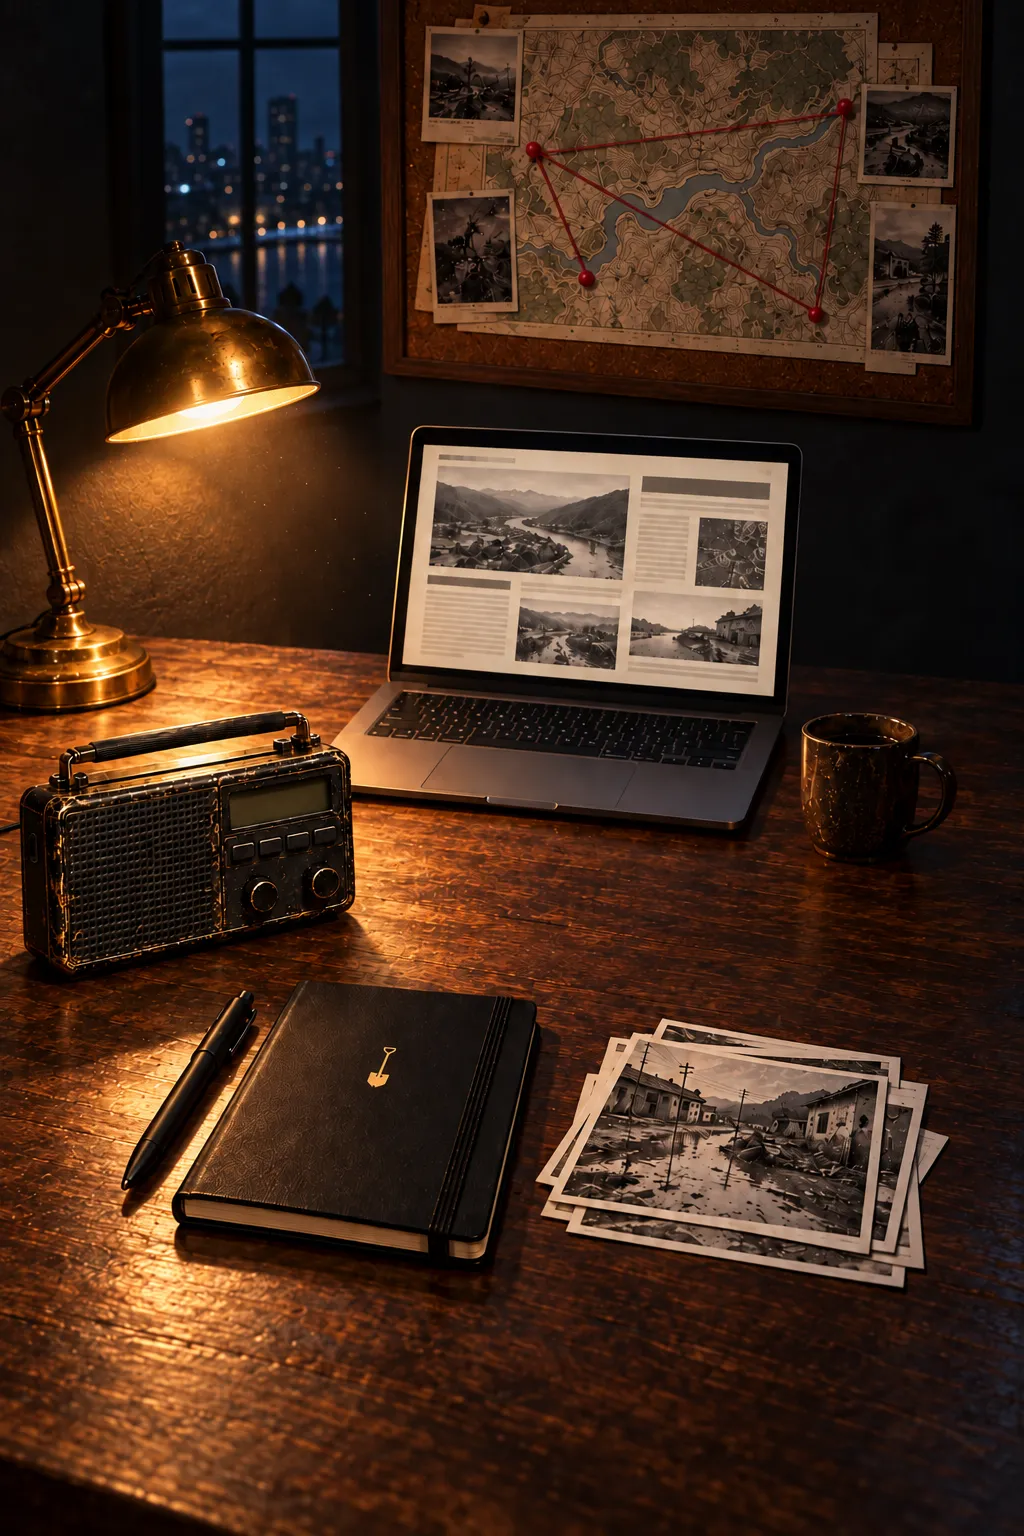
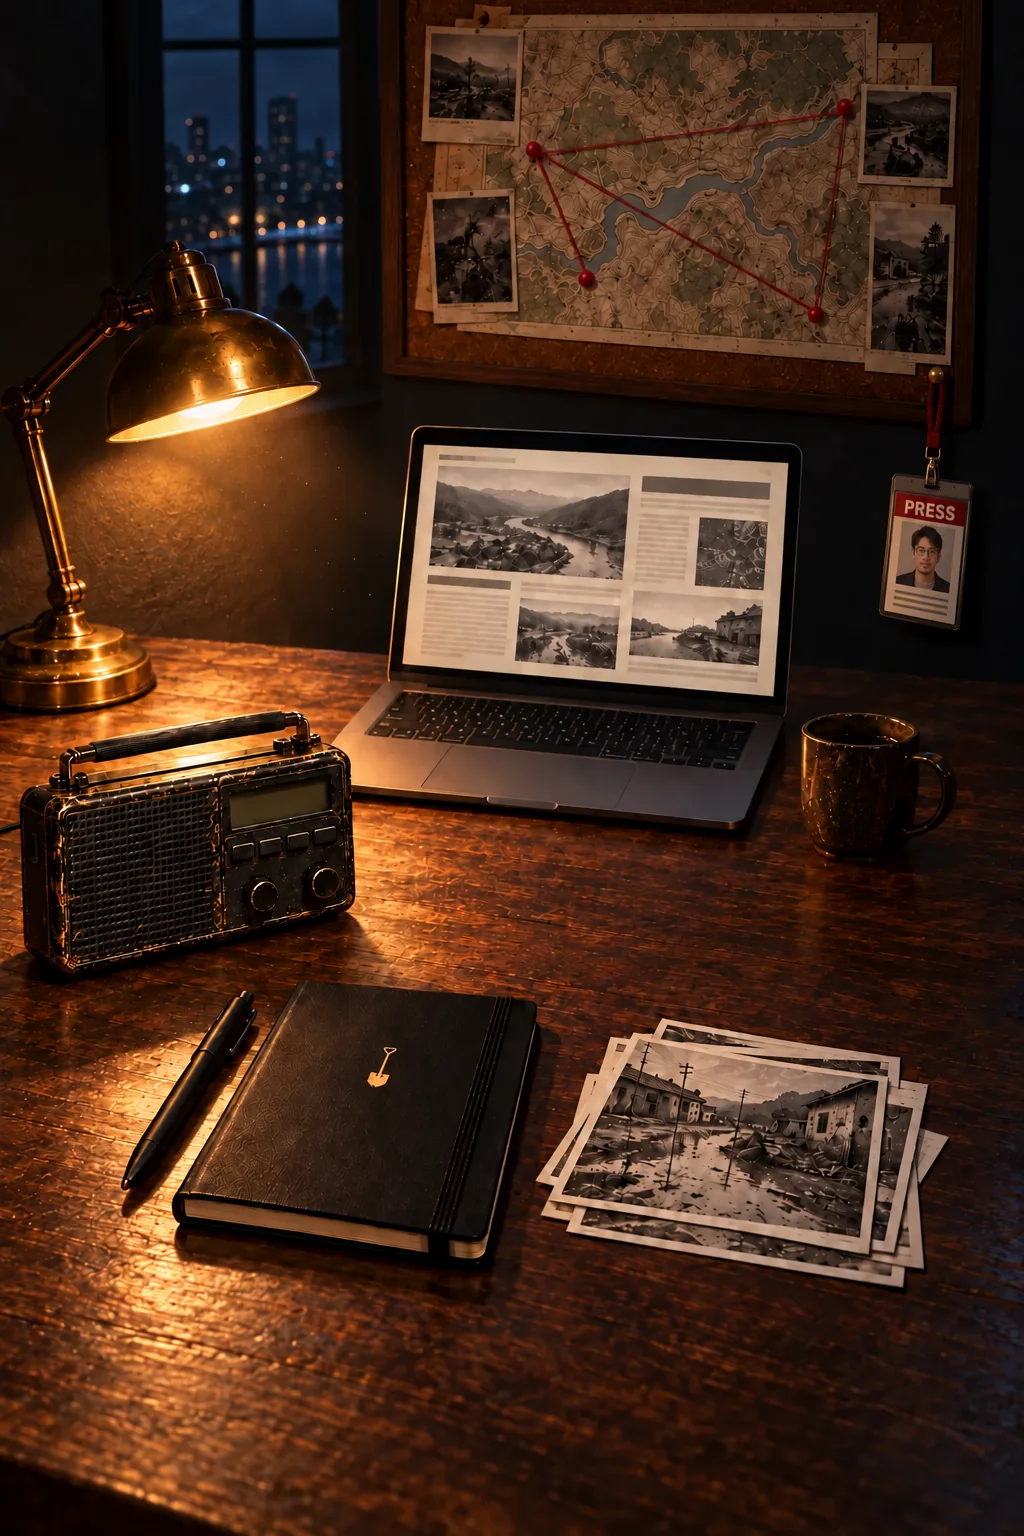
feat: press badge painted into the desk scene under the corkboard, soft staggered glow dots on the small desk props, full-width clipboard on phones
Claude-Session: https://claude.ai/code/session_01PNTLW8Jm5wEmPf4UpTbdVN

diff --git a/styles/desk.css b/styles/desk.css
@@ -220,12 +220,17 @@
   .desk__drag-hint { top: calc(var(--safe-top) + 6.6rem); right: max(1rem, var(--safe-right)); bottom: auto; left: max(1rem, var(--safe-left)); width: auto; max-width: none; font-size: 0.92rem; text-align: center; }
 }
 
-/* 桌上可以點的小東西：沒有提示小點，滑過時一樣會變亮放大 */
+/* 桌上可以點的小東西：光點比主要物件小、暗，閃爍節奏錯開（--glow-delay 由 js/props.js 依序設定）；點過就熄掉 */
 .desk-prop { z-index: 1; }
+.object-glow--minor { width: 0.62rem; height: 0.62rem; margin: -0.31rem 0 0 -0.31rem; border-width: 1.5px; border-color: rgba(255, 242, 207, 0.8); background: rgba(233, 151, 79, 0.75); box-shadow: 0 0 0.8rem 0.2rem rgba(255, 136, 66, 0.4); opacity: 0.85; animation: minor-pulse 3.4s ease-in-out var(--glow-delay, 0s) infinite; transition: opacity 300ms ease; }
+@keyframes minor-pulse { 0%, 100% { opacity: 0.35; transform: scale(0.85); } 50% { opacity: 0.95; transform: scale(1.1); } }
+.desk-prop.is-seen .object-glow--minor { opacity: 0; animation: none; }
 .desk-prop--lamp { --x: 10.5; --y: 6.4; --w: 14.4; --ar: 1.55; }
 .desk-prop--window { --x: 32; --y: 0; --w: 12.6; --ar: 0.79; }
 .desk-prop--mug { --x: 64.6; --y: 51; --w: 9; --ar: 1.07; z-index: 3; }
 .desk-prop--shelf { --x: 88.5; --y: 0; --w: 11.5; --ar: 0.58; }
+/* 記者證掛在軟木板右下角的圖釘上（畫在桌景裡），光點在證件上 */
+.desk-prop--badge { --x: 79.2; --y: 29.8; --w: 5.8; --ar: 0.36; --dx: 50%; --dy: 88%; z-index: 2; }
 
 /* 手寫文字泡泡 */
 .prop-note { position: fixed; z-index: 40; width: max-content; max-width: min(19rem, calc(100vw - 2rem)); margin: 0; padding: 0.65rem 0.9rem; color: #2b1d13; background: #f4ecd6; box-shadow: 0 0.8rem 1.6rem rgba(0, 0, 0, 0.5); font: 700 1.02rem/1.55 var(--hand); transform: translate(-50%, -100%) rotate(-1.5deg); pointer-events: none; animation: prop-note-in 220ms ease; }
@@ -233,30 +238,11 @@
 .prop-note[hidden] { display: none; }
 @keyframes prop-note-in { from { opacity: 0; transform: translate(-50%, calc(-100% + 0.4rem)) rotate(-1.5deg); } }
 
-/* 記者證：放在畫面前方右下角，板夾收合時露在它上方；板夾拉上來會蓋過它 */
-.press-badge { position: absolute; z-index: 18; right: calc(var(--safe-right) + 1.4rem); bottom: calc(var(--safe-bottom) + 9.4rem); padding: 0; border: 0; background: transparent; cursor: pointer; transform: rotate(-7deg); transform-origin: 50% 0; transition: transform 260ms cubic-bezier(0.3, 1.4, 0.5, 1); }
-.press-badge:hover,
-.press-badge:focus-visible { transform: rotate(-4deg) translateY(-0.3rem) scale(1.04); }
-.press-badge:focus-visible { outline: none; }
-.press-badge:focus-visible .press-badge__card { outline: 2px solid var(--ember-bright); outline-offset: 3px; }
-.press-badge__lanyard { position: absolute; z-index: -1; top: -0.4rem; left: 50%; width: 0.9rem; height: 9rem; margin-left: -0.45rem; background: repeating-linear-gradient(90deg, #7d1d17 0 2px, #9a2a20 2px 4px); box-shadow: 0 0.4rem 0.8rem rgba(0, 0, 0, 0.5); transform: translateY(-100%) rotate(14deg); transform-origin: 50% 100%; }
-.press-badge__card { position: relative; display: grid; justify-items: center; gap: 0.15rem; width: 7.4rem; padding: 0 0 0.55rem; overflow: hidden; border-radius: 0.45rem; color: #2b1d13; background: linear-gradient(160deg, #ffffff, #e9e6df); box-shadow: inset 0 0 0 1px rgba(255, 255, 255, 0.7), 0 1rem 1.8rem rgba(0, 0, 0, 0.6); font-family: var(--sans); }
-.press-badge__card::after { content: ''; position: absolute; inset: 0; background: linear-gradient(120deg, rgba(255, 255, 255, 0.35), transparent 35%, transparent 70%, rgba(255, 255, 255, 0.15)); pointer-events: none; }
-.press-badge__clip { position: absolute; top: 0.3rem; left: 50%; width: 1.4rem; height: 0.35rem; margin-left: -0.7rem; border-radius: 0.2rem; background: rgba(0, 0, 0, 0.25); }
-.press-badge__head { display: flex; align-items: baseline; justify-content: center; gap: 0.35rem; width: 100%; padding: 0.8rem 0 0.3rem; color: #fff; background: #b02a1f; font: 900 0.82rem/1 var(--sans); letter-spacing: 0.18em; }
-.press-badge__head small { font-size: 0.58rem; letter-spacing: 0.1em; }
-.press-badge__card img { display: block; width: 4.4rem; height: auto; margin-top: 0.45rem; aspect-ratio: 304 / 360; object-fit: cover; border: 1px solid rgba(0, 0, 0, 0.15); }
-.press-badge__name { margin-top: 0.2rem; font: 800 1.02rem/1.2 var(--serif); letter-spacing: 0.2em; }
-.press-badge__role { color: #6b5d4b; font-size: 0.56rem; letter-spacing: 0.06em; }
-.press-badge__number { color: #9a8c79; font: 600 0.5rem var(--sans); letter-spacing: 0.12em; }
 
 @media (max-aspect-ratio: 4/5) {
   .desk-prop--lamp { --x: 9.8; --y: 15.6; --w: 21.5; --ar: 1.1; }
   .desk-prop--window { --x: 15.6; --y: 0; --w: 18; --ar: 0.63; }
   .desk-prop--mug { --x: 78; --y: 46.2; --w: 15; --ar: 1.03; }
   .desk-prop--shelf { display: none; }
-  /* 手機：板夾收合後佔掉右下，記者證改放左下角 */
-  .press-badge { right: auto; left: max(0.6rem, var(--safe-left)); bottom: max(0.8rem, var(--safe-bottom)); transform: rotate(6deg) scale(0.6); transform-origin: 0 100%; }
-  .press-badge:hover, .press-badge:focus-visible { transform: rotate(4deg) scale(0.64); }
-  .press-badge__lanyard { height: 3.2rem; }
+  .desk-prop--badge { --x: 85.4; --y: 23.8; --w: 9.8; --ar: 0.37; --dx: 50%; --dy: 88%; }
 }

diff --git a/js/props.js b/js/props.js
@@ -1,11 +1,11 @@
-// 桌上的小東西（檯燈、窗外、咖啡杯、書架）與前方的記者證：點了跳出一小段手寫文字，增加情境。
+// 桌上的小東西（檯燈、窗外、咖啡杯、書架）與掛在軟木板下的記者證：點了跳出一小段手寫文字，增加情境。
 // 小東西的位置寫在 styles/desk.css 的 .desk-prop--*；文字在 js/data.js 的 DESK_PROPS、PRESS_BADGE。
+// 每個小東西有一顆較小、較暗的光點，閃爍節奏和主要物件錯開；點過一次光點就熄掉。
 const SHOW_MS = 4200;
 
 export function createDeskProps(root, { props = [], badge } = {}) {
   const stage = root.querySelector('[data-desk-stage]');
   const bubble = root.querySelector('[data-prop-note]');
-  const badgeButton = root.querySelector('[data-press-badge]');
   let timer = 0;
   let current = null;
 
@@ -34,32 +34,27 @@ export function createDeskProps(root, { props = [], badge } = {}) {
     timer = window.setTimeout(hide, SHOW_MS);
   }
 
-  for (const prop of props) {
+  // 記者證已經畫在桌景裡，當成一個小東西處理
+  const items = badge ? [...props, { id: 'badge', label: `${badge.name}的記者證`, note: badge.note }] : props;
+  items.forEach((prop, index) => {
     const button = document.createElement('button');
     button.type = 'button';
     button.className = `desk-object desk-prop desk-prop--${prop.id}`;
     button.dataset.deskProp = prop.id;
     button.setAttribute('aria-label', `${prop.label}：${prop.note}`);
-    button.innerHTML = '<span class="desk-object__visual" aria-hidden="true"></span>';
-    button.addEventListener('click', () => show(button, prop.note));
+    button.style.setProperty('--glow-delay', `${-0.9 - index * 0.7}s`);
+    button.innerHTML = '<span class="object-glow object-glow--minor" aria-hidden="true"></span><span class="desk-object__visual" aria-hidden="true"></span>';
+    button.addEventListener('click', () => {
+      button.classList.add('is-seen');
+      show(button, prop.note);
+    });
     stage.append(button);
-  }
-
-  if (badge && badgeButton) {
-    const image = badgeButton.querySelector('img');
-    image.src = badge.src;
-    image.alt = badge.alt;
-    badgeButton.querySelector('[data-badge-name]').textContent = badge.name;
-    badgeButton.querySelector('[data-badge-role]').textContent = badge.role;
-    badgeButton.querySelector('[data-badge-number]').textContent = badge.number;
-    badgeButton.setAttribute('aria-label', `${badge.name}的記者證：${badge.note}`);
-    badgeButton.addEventListener('click', () => show(badgeButton.querySelector('.press-badge__card'), badge.note));
-  }
+  });
 
   // 拖曳桌面或點其他地方時，泡泡就收起來。
   root.querySelector('[data-desk-viewport]').addEventListener('scroll', hide, { passive: true });
   document.addEventListener('click', (event) => {
-    if (!bubble.hidden && !event.target.closest('[data-desk-prop], [data-press-badge]')) hide();
+    if (!bubble.hidden && !event.target.closest('[data-desk-prop]')) hide();
   });
 
   return { hide };

diff --git a/styles/objects.css b/styles/objects.css
@@ -355,10 +355,6 @@
   .journal__page { padding: var(--rule) 1rem var(--rule) 1.4rem; }
   .note-page p { font-size: 1.02rem; }
   .note-tape { right: 1rem; }
-  .checklist { --peek: 7.6rem; --cw: min(17rem, 82vw); right: 0.5rem; bottom: 0; transform: rotate(-1.2deg); }
-  .checklist__toggle { gap: 0.4rem; font-size: 0.86rem; letter-spacing: 0.03em; white-space: nowrap; }
-  .checklist__toggle::after { content: none; }
-  .checklist__toggle[aria-expanded='false']::after { content: none; }
 }
 
 @media (prefers-reduced-motion: reduce) {
@@ -405,6 +401,28 @@
 .checklist.is-collapsed { cursor: pointer; }
 .checklist.is-collapsed:hover,
 .checklist.is-collapsed:focus-within { transform: rotate(-1.2deg) translateY(calc(100% - var(--peek) - 1.1rem)); }
+
+/* 手機：板夾佔滿畫面寬度貼在底部、不歪斜；用九宮格（border-image）切板夾照片，高度跟著內容走，夾子不會變形 */
+@media (max-width: 720px) {
+  .checklist {
+    --cw: 100vw;
+    --peek: calc(var(--cw) * 160 / 564 + 2.6rem);
+    right: 0;
+    bottom: 0;
+    width: 100%;
+    aspect-ratio: auto;
+    padding: 0 0.4rem 0.3rem;
+    border-style: solid;
+    border-width: calc(var(--cw) * 160 / 564) calc(var(--cw) * 40 / 564) calc(var(--cw) * 57 / 564);
+    border-image: url('../assets/images/clipboard.webp') 160 40 57 fill stretch;
+    background: none;
+    transform: none;
+  }
+  .checklist.is-collapsed { transform: translateY(calc(100% - var(--peek))); }
+  .checklist.is-collapsed:hover,
+  .checklist.is-collapsed:focus-within { transform: translateY(calc(100% - var(--peek) - 0.6rem)); }
+  .checklist__toggle { gap: 0.5rem; font-size: 0.95rem; letter-spacing: 0.04em; white-space: nowrap; }
+}
 
 /* 筆記本：頁面本身可以點來翻頁；右下角捲起一點紙角提示 */
 .journal[data-open='true'] .journal__page,

diff --git a/index.html b/index.html
@@ -120,17 +120,6 @@
         </div>
         </div>
         <p class="prop-note" data-prop-note role="status" hidden></p>
-        <button class="press-badge" type="button" data-press-badge>
-          <span class="press-badge__lanyard" aria-hidden="true"></span>
-          <span class="press-badge__card">
-            <span class="press-badge__clip" aria-hidden="true"></span>
-            <span class="press-badge__head" aria-hidden="true">PRESS<small>記者證</small></span>
-            <img alt="" width="304" height="360">
-            <span class="press-badge__name" data-badge-name></span>
-            <span class="press-badge__role" data-badge-role></span>
-            <span class="press-badge__number" data-badge-number></span>
-          </span>
-        </button>
         <p class="desk__drag-hint" data-drag-hint hidden>桌上有小燈在閃的，都是思遠留下的東西。他的桌子亂得一眼看不完，拉著桌面四處翻翻看。</p>
 
       </section>

diff --git a/README.md b/README.md
@@ -63,7 +63,7 @@ python3 -m http.server 4173
 ## 更換內容與素材
 
 - 預覽密碼：`js/gate.js`（只存密碼的 SHA-256；同一個分頁輸入過就不再問）。這只是預覽門檻，不是真正的保護。
-- 桌上的小東西（檯燈、窗外、咖啡杯、書架）與記者證：文字在 `js/data.js` 的 `DESK_PROPS`、`PRESS_BADGE`，位置在 `styles/desk.css` 的 `.desk-prop--*`；證件照 `assets/images/press-portrait.jpg` 為 AI 生成的虛構人物。
+- 桌上的小東西（檯燈、窗外、咖啡杯、書架）與記者證：文字在 `js/data.js` 的 `DESK_PROPS`、`PRESS_BADGE`，位置在 `styles/desk.css` 的 `.desk-prop--*`；每個小東西有一顆錯開節奏的小光點，點過就熄掉。記者證畫在桌景裡（掛在軟木板右下角），證件照 `assets/images/press-portrait.jpg` 為 AI 生成的虛構人物，桌景以它為參考重新生成。
 - 讀者版置頂：要先在 Supabase 執行 `supabase/pin.sql`，之後在審核頁「已上架」設定置頂與 ↑ ↓ 順序。
 - 滿意度與抽獎：前台在 `js/feedback.js`，資料表與送出函式在 `supabase/feedback.sql`（要在 Supabase 的 SQL Editor 執行一次），報表在 `admin.html` 的「滿意度與抽獎」分頁。
 - 留言板：連線設定在 `js/board-config.js`，資料存取在 `js/board-api.js`，畫面在 `js/board.js`；示意文是 `js/data.js` 的 `BOARD_SAMPLE_POSTS`；後台結構在 `supabase/schema.sql`；審核頁是 `admin.html` 與 `js/admin.js`。
